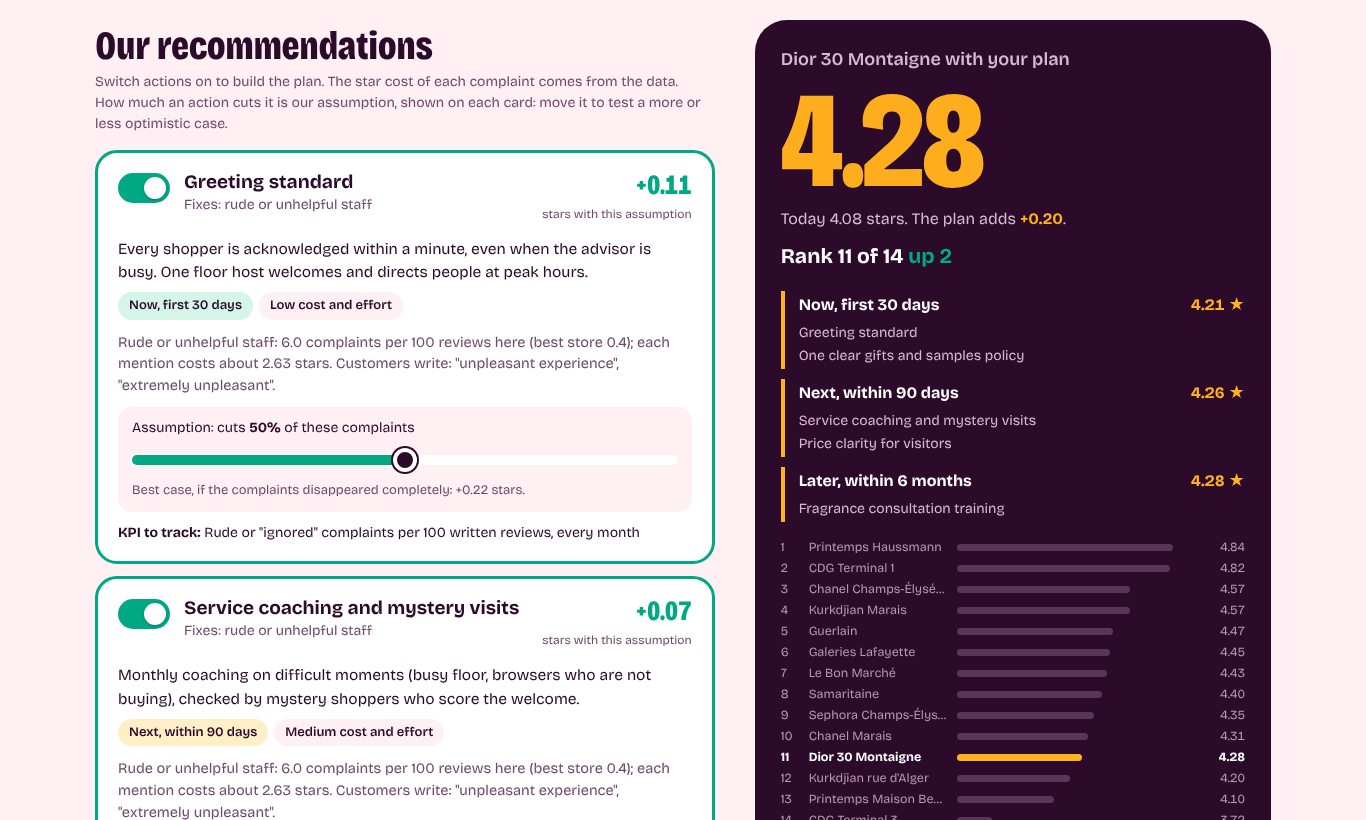
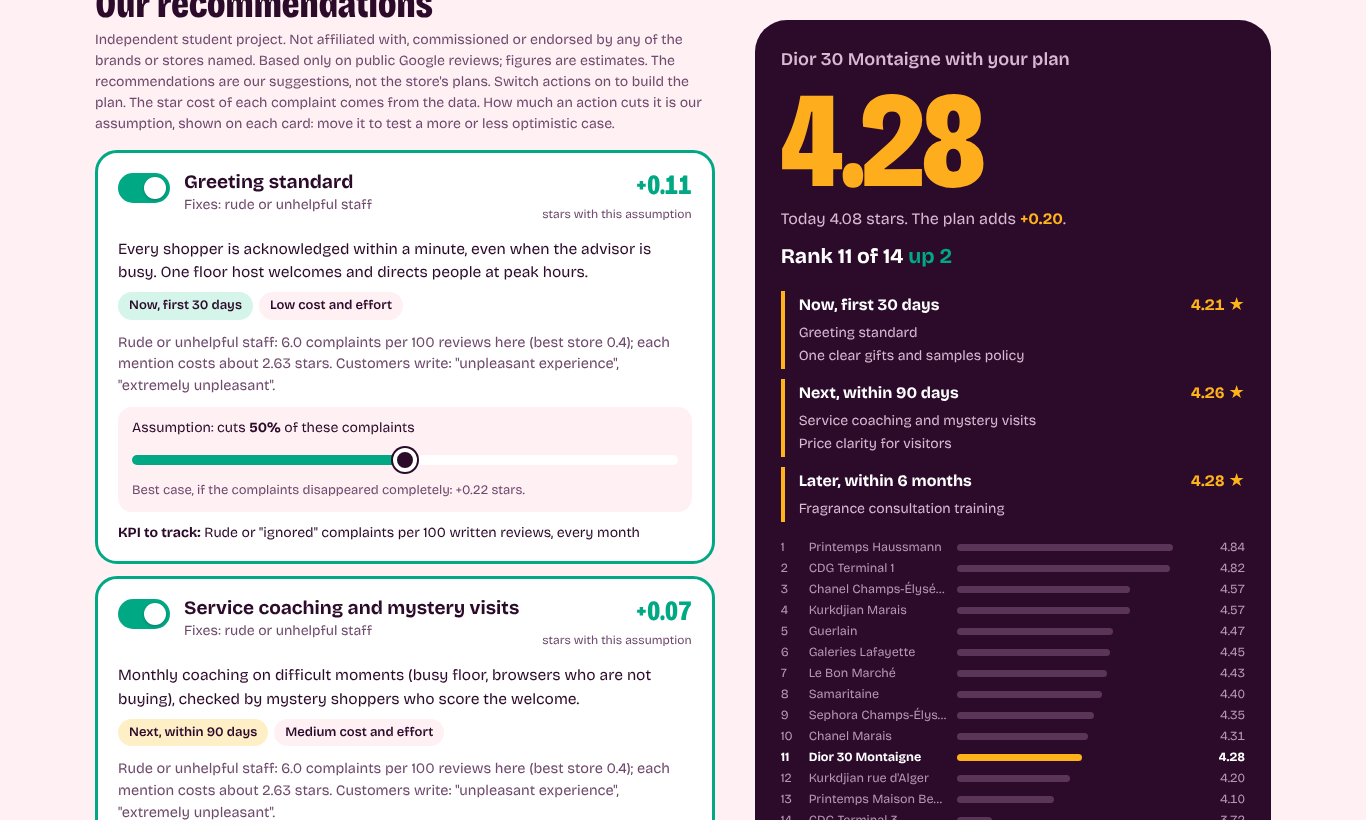
Add files via upload

Changed region(s): [[0.0615, 0.0, 0.5227, 0.1524]]

diff --git a/README.md b/README.md
@@ -4,6 +4,8 @@
 
 The answer is written for a retail or market intelligence team: which stores lead, which topics move the star rating, how visitors differ from locals, and how the picture changed through the protests, COVID, tax-refund rules and the return of tourists.
 
+*Independent student project. Not affiliated with, commissioned or endorsed by any of the brands or stores named. Based only on public Google reviews; figures are estimates.*
+
 **[Explore it interactively](https://athul1301.github.io/what-shoppers-say-about-paris-luxury-beauty-stores/interactive/):** a map, a 2016–2026 timeline, and an audit with an action plan for each store ([how to use it](#interactive-story)).
 
 ![League table](images/1_league_table.png)
@@ -42,6 +44,8 @@ The same analysis as a single interactive web page, written as if a consultancy 
 - Each recommended action fixes one or two topics and comes with a timeline (first 30 days, 90 days or 6 months), a cost level and a KPI to track.
 - How much an action reduces complaints is an assumption, not something the reviews can show. Each card states it (for example "cuts 50% of these complaints") and has a slider to test a more or less optimistic case, next to the best case where the complaints disappear completely.
 - The new rating = today's rating + star cost of each topic × share of reviews that mention it × the assumed cut. Reviews without text are left unchanged. It shows the direction and rough size of an improvement, not a forecast.
+
+The store audits and recommendations are our suggestions from public reviews, not the stores' own plans or views.
 
 **Open it on your own computer.** Download `interactive/index.html` and double-click it. It is one self-contained file (data and font included), so it works offline. Like the rest of this repository, it only contains aggregated figures, no review text.
 
